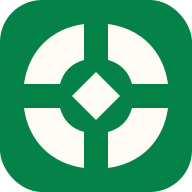
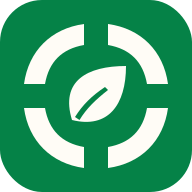
Refine Junction Lens mark with leaf and lighter corner bars

Changed region(s): [[0.2188, 0.2188, 0.7812, 0.7812], [0.5625, 0.5625, 0.7812, 0.7812], [0.2188, 0.2188, 0.4375, 0.4375]]

diff --git a/branding/build_assets.py b/branding/build_assets.py
@@ -24,11 +24,12 @@ CREAM = "#F1E7D8"
 PANEL = "#FFF9F0"
 WHITE = "#FFFCF6"
 MARK = (
-    "M8 28C9.5 17 17 9.5 28 8V20C23.9 21.1 21.1 23.9 20 28Z "
-    "M36 8C47 9.5 54.5 17 56 28H44C42.9 23.9 40.1 21.1 36 20Z "
-    "M56 36C54.5 47 47 54.5 36 56V44C40.1 42.9 42.9 40.1 44 36Z "
-    "M28 56C17 54.5 9.5 47 8 36H20C21.1 40.1 23.9 42.9 28 44Z "
-    "M32 24L40 32L32 40L24 32Z"
+    "M8 28C9.5 17 17 9.5 28 8V15C20.6 16.3 16.3 20.6 15 28Z "
+    "M36 8C47 9.5 54.5 17 56 28H49C47.7 20.6 43.4 16.3 36 15Z "
+    "M56 36C54.5 47 47 54.5 36 56V49C43.4 47.7 47.7 43.4 49 36Z "
+    "M28 56C17 54.5 9.5 47 8 36H15C16.3 43.4 20.6 47.7 28 49Z "
+    "M24 40C20 27 29 22 42 22C42 35 36 43 24 40Z "
+    "M25 39C27.5 35 30.5 32 35 29L36 30C31.8 33.3 28.8 36.2 26.5 40Z"
 )
 
 
@@ -42,7 +43,7 @@ def svg(body: str, width: float, height: float, description: str) -> str:
 
 
 def mark(color: str) -> str:
-    return f'<path fill="{color}" d="{MARK}"/>'
+    return f'<path fill="{color}" fill-rule="evenodd" d="{MARK}"/>'
 
 
 def badge() -> str:
@@ -117,7 +118,7 @@ def main() -> None:
     OUTPUT.mkdir(parents=True, exist_ok=True)
     pieces, width = wordmark_paths()
     assets = {
-        "mark.svg": svg(mark(GREEN), 64, 64, "Four curved intersection corners frame a central observation diamond."),
+        "mark.svg": svg(mark(GREEN), 64, 64, "Four slim curved intersection corners frame a central green leaf."),
         "mark-cream.svg": svg(mark(WHITE), 64, 64, "Cream Junction Lens mark for dark backgrounds."),
         "mark-mono.svg": svg(mark(INK), 64, 64, "Single-color Junction Lens mark."),
         "wordmark.svg": lockup(pieces, width, "primary"),
@@ -140,9 +141,10 @@ def main() -> None:
         "name": "Junction Lens", "team": ["Mert", "Carter"],
         "colors": {"forest": GREEN, "ink": INK, "cream": CREAM, "panel": PANEL, "reversed": WHITE},
         "wordmark": {"family": "Manrope", "weight": 800, "outlined": True},
+        "mark": {"center": "leaf", "corner_bar_nominal_grid_units": 7, "grid_units": 64},
         "clear_space": "At least 8 units on the 64-unit mark grid; keep its built-in padding.",
         "minimum_sizes": {"standalone_mark_px": 24, "badge_favicon_px": 16, "horizontal_lockup_width_px": 168},
-        "status": "Review kit; not activated in the application."
+        "status": "Compact mark and favicon activated; full wordmarks available for demo and submission materials."
     }, indent=2) + "\n")
     print(f"Built {len(assets)} SVGs, 5 icon PNGs and a 1200 × 960 review sheet.")
 

diff --git a/branding/README.md b/branding/README.md
@@ -2,11 +2,11 @@
 
 **Owner:** Mert
 
-**Updated:** 7 November 2026, 20:33 America/New_York / 8 November 2026, 01:33 UTC
+**Updated:** 7 November 2026, 21:03 America/New_York / 8 November 2026, 02:03 UTC
 
 ## Direction
 
-**Junction Lens** combines four curved intersection corners with a central observation diamond. The open horizontal and vertical spaces suggest crossing roads, while the circular outline suggests a lens. It is an identity mark, not a camera-health indicator, pollution plume, measured air-quality symbol or accuracy badge.
+**Junction Lens** combines four slim curved intersection corners with a central leaf. The open horizontal and vertical spaces suggest crossing roads, while the circular outline suggests a lens. The leaf supplies the environmental cue in the same forest green as the primary mark. It is an identity mark, not a camera-health indicator, pollution plume, measured air-quality symbol or accuracy badge.
 
 The kit keeps the approved cream/forest palette and the application's bold Manrope typography. It introduces no new marketing claims or commercial positioning. Mert and Carter remain the team names.
 
@@ -14,7 +14,7 @@ The kit keeps the approved cream/forest palette and the application's bold Manro
 
 ## Ready-to-use assets
 
-Assets are in [`frontend/public/brand/`](../frontend/public/brand/). They are **not activated** in the application; existing layout, metadata, icons, colors and runtime behavior are untouched.
+Assets are in [`frontend/public/brand/`](../frontend/public/brand/). Mert reviewed the direction and integrated the compact navigation mark and favicon/touch-icon metadata, preserving the existing layout and palette. Production serving and desktop/phone presentation are checked by the dashboard stream.
 
 | Asset | Use |
 |---|---|
@@ -43,7 +43,7 @@ The production SVG wordmarks use outlined glyphs. They need no web-font request,
 | Wordmark | Manrope ExtraBold, 800 | Outlined in the supplied assets. |
 | Interface | Existing Manrope family and weights | Preserve the current product typography. |
 
-Keep at least **8 units** of clear space around the mark on its **64-unit grid**; the SVG includes that padding. Preserve its aspect ratio. Use the standalone mark at **24 px or larger**, the badge favicon at **16 px or larger**, and the horizontal lockup at **168 px or wider**. For a narrow sidebar, the mark with the existing text lockup is preferable to compressing the full SVG. Do not add shadows, bevels, gradients, a leaf, a status dot or a bounding ring. Do not animate the identity as a live-health signal. Keep scientific labels and data-status colors independent of the brand mark.
+Keep at least **8 units** of clear space around the mark on its **64-unit grid**; the SVG includes that padding. The surrounding bars have a nominal **7-unit** thickness, reduced from the original 12 units. Preserve its aspect ratio. Use the standalone mark at **24 px or larger**, the badge favicon at **16 px or larger**, and the horizontal lockup at **168 px or wider**. For a narrow sidebar, the mark with the existing text lockup is preferable to compressing the full SVG. Do not add shadows, bevels, gradients, a status dot or a bounding ring. Keep the leaf and bars the same color within each treatment: forest on light surfaces, cream when reversed, and ink for monochrome. Do not animate the identity as a live-health signal. Keep scientific labels and data-status colors independent of the brand mark.
 
 The lockup is the primary title treatment. Use the compact mark for navigation/favicon contexts; use the primary lockup for a title slide or submission cover. No new tagline is required. The existing phrase “A clearer perspective.” is compatible, but it is not baked into the logo.
 
@@ -61,6 +61,8 @@ DYLD_FALLBACK_LIBRARY_PATH=/opt/homebrew/lib \
 python3.12 branding/build_assets.py
 ```
 
-The system Cairo library is required only for regeneration of PNGs. The checked-in SVGs and PNGs need none of these authoring tools at runtime. The builder reads the existing bundled font and writes only this review kit and the new public brand directory. `tokens.json` records the selected values for a later deliberate UI integration.
+The system Cairo library is required only for regeneration of PNGs. The checked-in SVGs and PNGs need none of these authoring tools at runtime. The builder reads the existing bundled font and writes only this review kit and the new public brand directory. `tokens.json` records the selected values and current compact-mark/favicon activation status.
 
-**Remaining:** Mert reviews the direction before the dashboard owner replaces the current leaf or adds favicon metadata. No frontend source, layout, backend, contract, camera, model, dataset or scientific setting was changed by this task.
+**Integration note (7 November 2026, 20:58 America/New_York / 8 November 2026, 01:58 UTC):** The compact application mark and favicon are activated. The full wordmarks and larger icons are available for future demo/submission materials. Branding does not alter scientific settings, camera approval, datasets or runtime measurements.
+
+**Leaf revision (7 November 2026, 21:03 America/New_York / 8 November 2026, 02:03 UTC):** At Mert's request, the central diamond is replaced with a leaf and the curved bars are reduced from 12 to 7 nominal grid units. The primary leaf is forest green; reversed and monochrome treatments retain cream/ink equivalents for contrast. All filenames, canvases, wordmark glyphs, spacing, palette and existing interface integration are preserved. Regenerated and visually checked the complete SVG/PNG/ICO kit and 16–64 px preview.

diff --git a/Worklog.md b/Worklog.md
@@ -6,6 +6,13 @@ Times are shown in America/New_York and UTC. Authors are Mert and Carter only.
 
 ---
 
+### 7 November 2026, 21:03 America/New_York / 8 November 2026, 02:03 UTC
+
+- **Who:** Mert
+- **Done:** Revised the Junction Lens identity at Mert's request: replaced the center diamond with a simple leaf and reduced the surrounding curved bars from 12 to 7 nominal units. Regenerated every primary/reversed/monochrome mark and wordmark, favicon, PNG icon size, token record and review preview at the existing asset paths. Preserved the pending approved branding-activation note in `branding/README.md`.
+- **Completed:** Seven production SVGs parse and remain self-contained; their canvases and outlined wordmark glyphs match the prior versions. Five RGBA PNG sizes, the 16/32 px ICO and the 1200 × 960 review sheet pass checks. Inspected the primary, reversed, monochrome and 16/24/32/48/64 px results. Scope/whitespace checks pass. Existing asset consumers receive the revision without frontend source changes.
+- **Still open:** Parent review of the revised visual kit and the dashboard stream's combined presentation check. No layout, palette, scientific setting, camera, model, dataset, backend or contract was changed by this narrow asset revision. Concurrent implementation/root-document edits are excluded from this publication.
+
 ### 7 November 2026, 20:58 America/New_York / 8 November 2026, 01:58 UTC
 
 - **Who:** Mert
